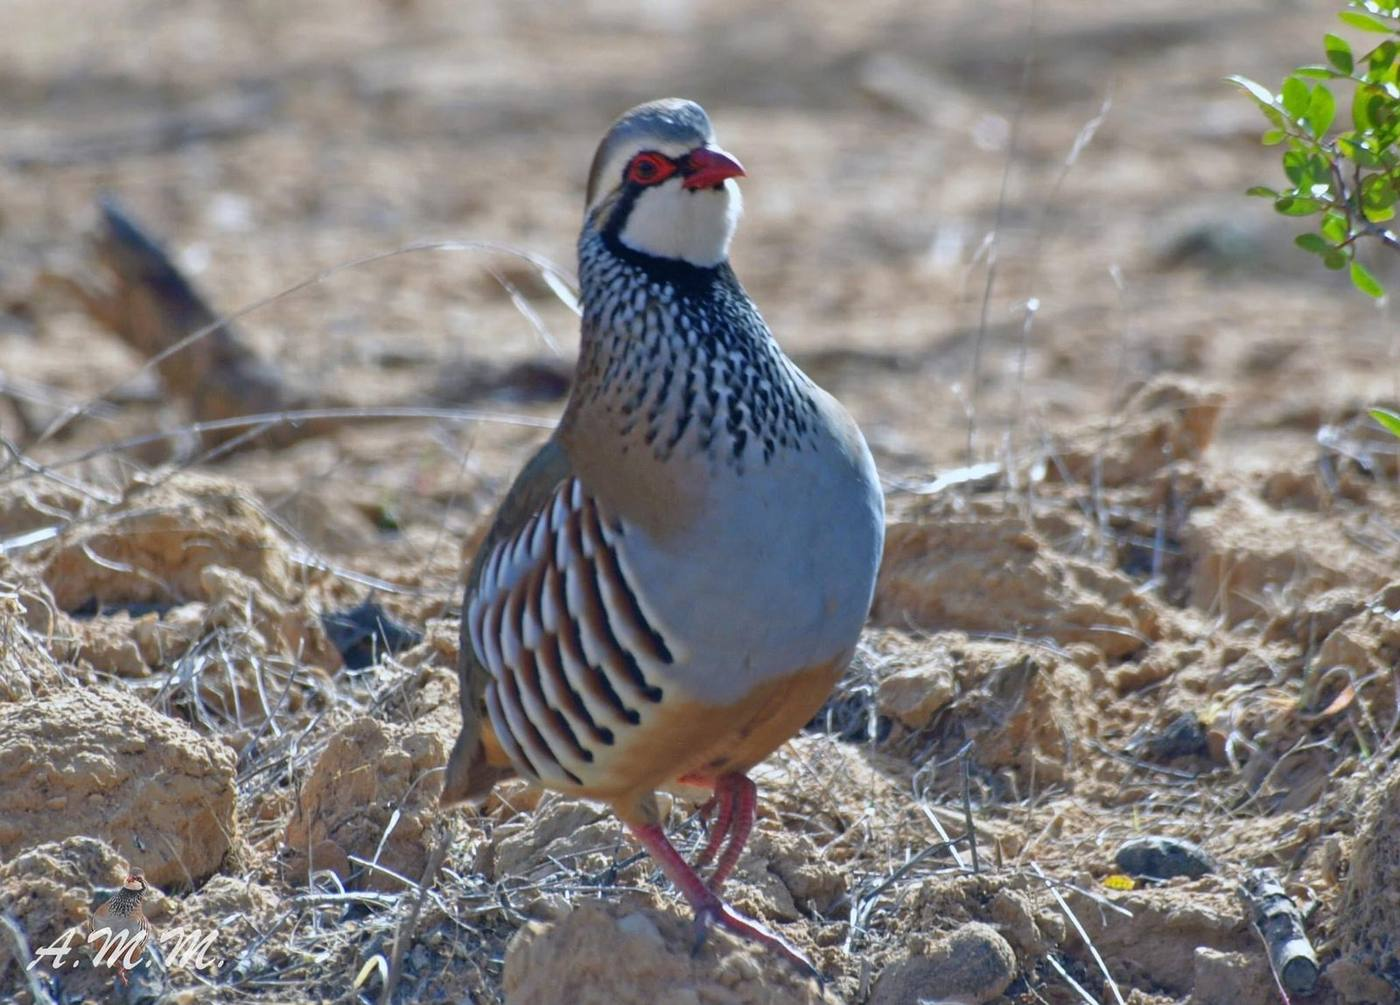
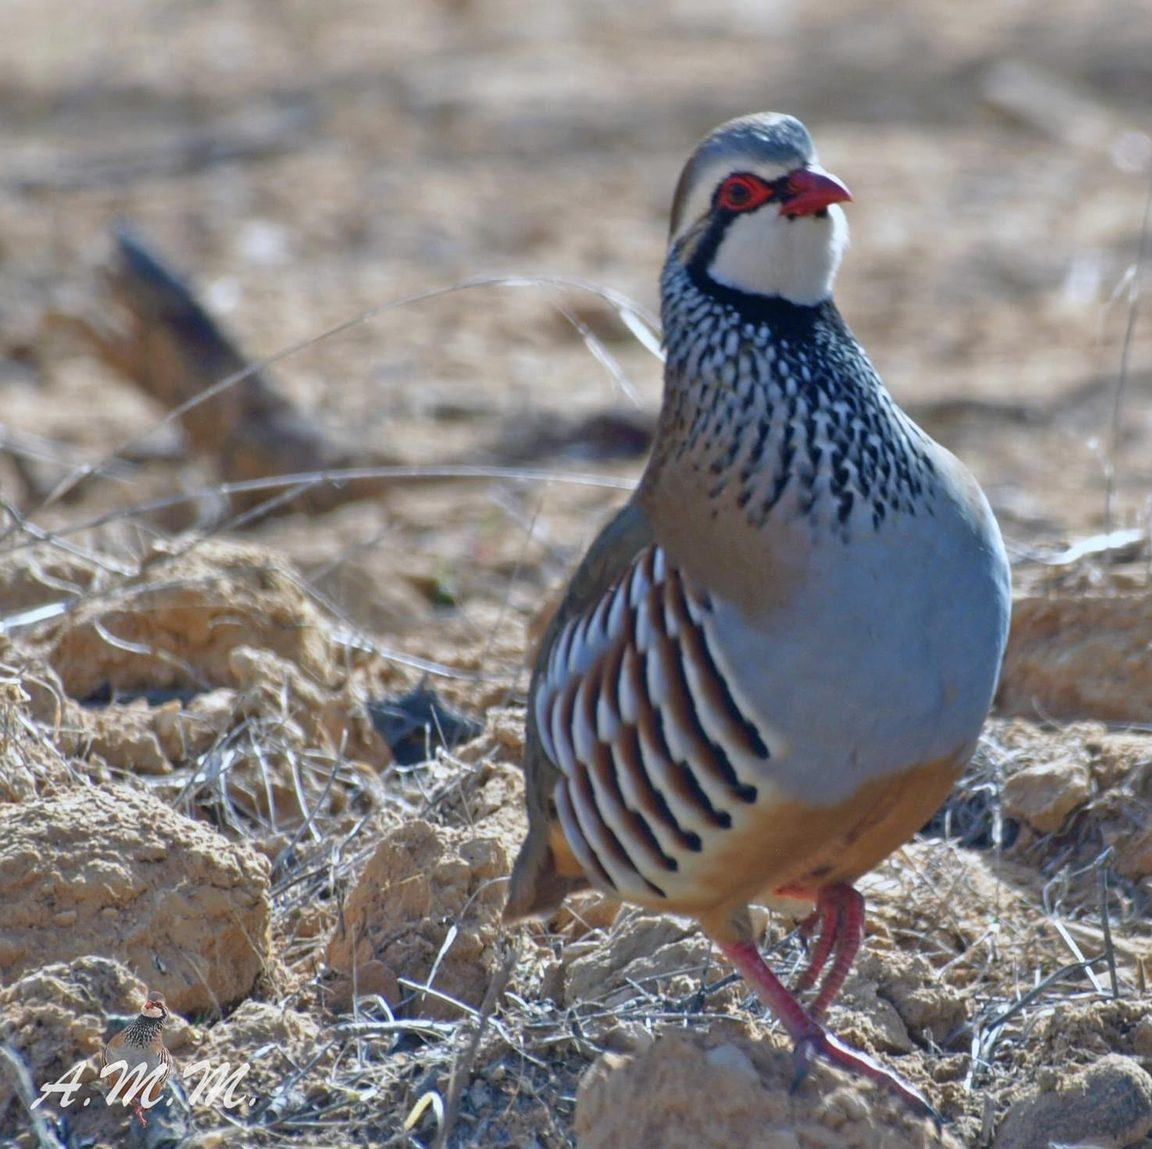
Portada más compacta con textos y botones mayores; títulos de sección más pequeños; sin LinkedIn duplicado en contacto
Claude-Session: https://claude.ai/code/session_012SqXj8DHra2stTkQztURTu

diff --git a/index.html b/index.html
@@ -44,13 +44,13 @@ h1,h2,h3{margin:0}
 .cta{white-space:nowrap;justify-self:end;background:var(--lm-green);color:#fff;font-family:var(--font-display);font-weight:600;font-size:13px;padding:10px 18px;border-radius:8px;transition:background .15s}
 .cta:hover{background:var(--lm-green-dark);color:#fff}
 /* HERO MOSAIC */
-.hero{position:relative;height:calc(100vh - 80px);min-height:560px;max-height:860px;display:grid;grid-template-columns:repeat(2,minmax(0,1fr));gap:4px;background:#fff}
+.hero{position:relative;height:calc(72vh - 80px);min-height:460px;max-height:620px;display:grid;grid-template-columns:repeat(2,minmax(0,1fr));gap:4px;background:#fff}
 .tile{position:relative;overflow:hidden}
 .tile .ph{position:absolute;inset:0}
 .tile .shade{position:absolute;inset:0;background:linear-gradient(to top,rgba(10,40,30,.78) 0%,rgba(10,40,30,.15) 55%,transparent 75%);pointer-events:none;transition:opacity .3s}
 .tile .cap{position:absolute;left:28px;right:28px;bottom:32px;color:#fff;pointer-events:none}
 .tile .cap .k{font-family:var(--font-display);font-size:11px;letter-spacing:.2em;text-transform:uppercase;font-weight:700;opacity:.9}
-.tile .cap .cap-t{margin:8px 0 0;font-family:var(--font-display);font-weight:800;font-size:clamp(24px,2.6vw,36px);text-transform:uppercase;line-height:1.05;margin-top:8px}
+.tile .cap .cap-t{margin:8px 0 0;font-family:var(--font-display);font-weight:800;font-size:clamp(28px,3.2vw,44px);text-transform:uppercase;line-height:1.05;margin-top:8px}
 .tile .cap .go{pointer-events:auto;display:inline-flex;gap:8px;align-items:center;margin-top:14px;color:#fff;font-family:var(--font-display);font-size:12px;font-weight:700;text-transform:uppercase;letter-spacing:.1em;border-bottom:1px solid rgba(255,255,255,.6);padding-bottom:3px}
 .hero-card{position:absolute;left:50%;top:44px;transform:translateX(-50%);background:#fff;padding:26px 34px;border-radius:14px;box-shadow:var(--shadow-3);text-align:center;max-width:620px;width:calc(100% - 64px);z-index:2}
 .hero-card h1{font-family:var(--font-display);font-weight:800;font-size:clamp(22px,2.4vw,32px);text-transform:uppercase;line-height:1.1}
@@ -244,10 +244,10 @@ footer .p{font-family:var(--font-display);text-transform:uppercase;letter-spacin
 
 /* Portada: bloques enteros clicables y "Ver servicios" más visible */
 .tile{cursor:pointer}
-.tile .cap{bottom:72px}
+.tile .cap{bottom:48px}
 .tile .cap .cap-t{transition:transform .25s ease}
 .tile:hover .cap .cap-t{transform:translateY(-3px)}
-.tile .cap .go{margin-top:16px;padding:11px 20px;border:1.5px solid rgba(255,255,255,.9);border-radius:999px;font-size:13px;letter-spacing:.08em;background:rgba(10,40,30,.35);backdrop-filter:blur(4px);transition:background .2s,color .2s,border-color .2s}
+.tile .cap .go{margin-top:18px;padding:14px 30px;border:2px solid rgba(255,255,255,.95);border-radius:999px;font-size:15px;letter-spacing:.08em;background:rgba(10,40,30,.35);backdrop-filter:blur(4px);transition:background .2s,color .2s,border-color .2s}
 .tile:hover .cap .go,.tile .cap .go:focus-visible{background:var(--lm-green);border-color:var(--lm-green);color:#fff}
 .tile .cap{text-align:center;display:flex;flex-direction:column;align-items:center}
 @media (max-width:760px){.tile .cap{bottom:28px}.tile .cap .go{padding:10px 18px}}
@@ -496,8 +496,8 @@ button.op-btn{border:0;cursor:pointer}
 .quien-a:hover{background:var(--lm-green);color:#fff}
 @media (max-width:760px){.quien-in{flex-wrap:wrap;gap:12px 14px}.quien-foto{width:64px;height:64px}.quien-n{font-size:16px}.quien-d{font-size:13.5px}.quien-a{width:100%;text-align:center}}
   .eyebrow,.g-t,.cred h4{font-size:18px;letter-spacing:.14em}
-.h2,.sv-h,.sv-head .sv-h{font-size:clamp(22px,2.2vw,28px)}
-#hero-cinegetica img{object-position:22% 50%}
+.h2,.sv-h,.sv-head .sv-h{font-size:clamp(20px,1.8vw,24px)}
+#hero-cinegetica img{object-position:50% 15%}
 @media (max-width:760px){#hero-cinegetica img{object-position:50% 0%}}
 /* Otros servicios: nombre + subservicios */
 .ot{border-radius:16px;padding:8px 18px 8px 8px;text-align:left;max-width:340px}
@@ -623,7 +623,6 @@ button.op-btn{border:0;cursor:pointer}
     <div class="clist">
       <div><svg width="16" height="16" viewBox="0 0 24 24" fill="#25D366"><path d="M.057 24l1.687-6.163a11.867 11.867 0 0 1-1.587-5.946C.16 5.335 5.495 0 12.05 0a11.817 11.817 0 0 1 8.413 3.488 11.824 11.824 0 0 1 3.48 8.414c-.003 6.557-5.338 11.892-11.893 11.892a11.9 11.9 0 0 1-5.688-1.448L.057 24zm6.597-3.807c1.676.995 3.276 1.591 5.392 1.592 5.448 0 9.886-4.434 9.889-9.885.002-5.462-4.415-9.89-9.881-9.892-5.452 0-9.887 4.434-9.889 9.884-.001 2.225.651 3.891 1.746 5.634l-.999 3.648 3.742-.981z"/></svg><a href="tel:+34661915900">+34 661 915 900</a>&nbsp;·&nbsp;<a href="https://wa.me/34661915900" target="_blank" rel="noopener">WhatsApp</a></div>
       <div><svg width="16" height="16" viewBox="0 0 24 24" fill="none" stroke="#147A59" stroke-width="2" stroke-linecap="round" stroke-linejoin="round"><rect x="2" y="4" width="20" height="16" rx="2"/><path d="m22 7-10 5L2 7"/></svg><a href="mailto:laurams.consultoresagricolas@gmail.com?subject=Consulta%20desde%20la%20web">laurams.consultoresagricolas@gmail.com</a><button type="button" class="copiar" data-copiar="laurams.consultoresagricolas@gmail.com" aria-label="Copiar email">Copiar</button></div>
-      <div><svg width="16" height="16" viewBox="0 0 24 24" fill="#0A66C2" aria-hidden="true"><path d="M20.45 20.45h-3.56v-5.57c0-1.33-.02-3.04-1.85-3.04-1.85 0-2.14 1.45-2.14 2.94v5.67H9.35V9h3.41v1.56h.05c.48-.9 1.64-1.85 3.37-1.85 3.6 0 4.27 2.37 4.27 5.46v6.28zM5.34 7.43a2.06 2.06 0 1 1 0-4.13 2.06 2.06 0 0 1 0 4.13zM7.12 20.45H3.56V9h3.56v11.45zM22.22 0H1.77C.79 0 0 .77 0 1.73v20.54C0 23.23.79 24 1.77 24h20.45c.98 0 1.78-.77 1.78-1.73V1.73C24 .77 23.2 0 22.22 0z"/></svg><a href="https://www.linkedin.com/in/laura-munoz-ingeniera-agricola/" target="_blank" rel="noopener">LinkedIn · Laura Muñoz</a></div>
     </div>
   </div>
   <form class="form" id="form-contacto">
